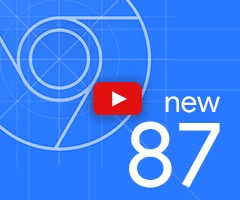
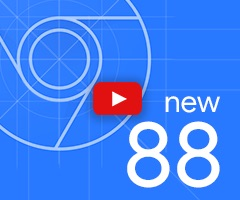
Update What's New UI for Chrome 88

Changed region(s): [[0.525, 0.6, 0.9333, 0.96], [0.5833, 0.93, 0.6125, 0.96]]

diff --git a/front_end/help/ReleaseNoteText.js b/front_end/help/ReleaseNoteText.js
@@ -17,6 +17,43 @@ const commandMenuShortcut = Host.Platform.isMac() ? 'Command+Shift+P' : 'Control
 /** @type {!Array<!ReleaseNote>} */
 export const releaseNoteText = [
   {
+    version: 30,
+    header: 'Highlights from the Chrome 88 update',
+    highlights: [
+      {
+        title: 'New CSS angle visualization tools',
+        subtitle: 'Better visualize and edit CSS angle in the Styles pane.',
+        link: 'https://developers.google.com/web/updates/2020/11/devtools#css-angle',
+      },
+      {
+        title: 'Emulate unsupported image types',
+        subtitle: '2 new emulations to disable AVIF and WebP image formats in the Rendering tab.',
+        link: 'https://developers.google.com/web/updates/2020/11/devtools#emulate-image',
+      },
+      {
+        title: 'Emulate storage quota size',
+        subtitle: 'Override storage quota size in the Storage pane.',
+        link: 'https://developers.google.com/web/updates/2020/11/devtools#emulate-storage',
+      },
+      {
+        title: 'New Web Vitals lane',
+        subtitle: 'New Web Vitals lane in the Performance panel recordings.',
+        link: 'https://developers.google.com/web/updates/2020/11/devtools#web-vitals',
+      },
+      {
+        title: 'Report CORS errors in the Network panel',
+        subtitle: 'Show CORS errors label and error code for failed CORS requests.',
+        link: 'https://developers.google.com/web/updates/2020/11/devtools#cors',
+      },
+      {
+        title: 'Frame details view updates',
+        subtitle: 'New cross-origin isolation status, API availability section, and more.',
+        link: 'https://developers.google.com/web/updates/2020/11/devtools#frame-details',
+      },
+    ],
+    link: 'https://developers.google.com/web/updates/2020/11/devtools',
+  },
+  {
     version: 29,
     header: 'Highlights from the Chrome 87 update',
     highlights: [
